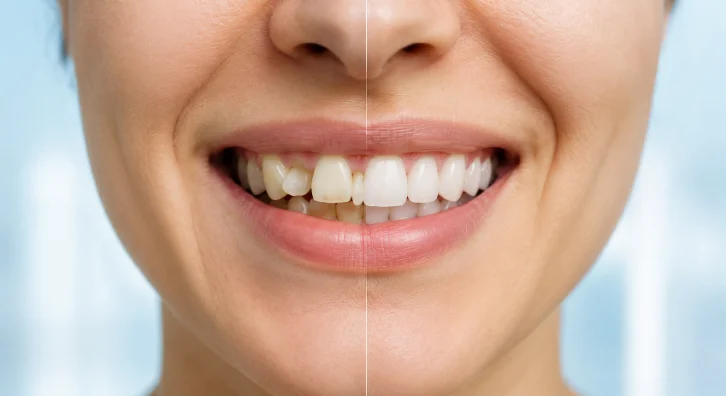
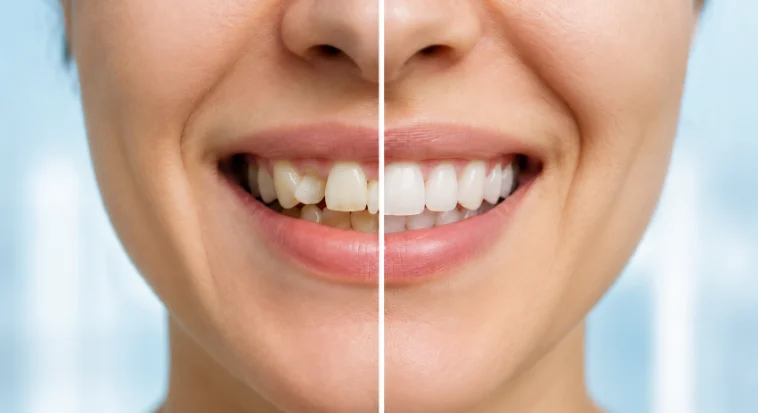
Add orthodontics page, update ortho/esthetic menu images, fix station exit to east
- Add new site/orthodontics.html (矯正歯科 / インビザラインGo detail page),
  matching whitening.html's page structure in the site's default brown palette
- Link index.html's orthodontics menu card image/title to /orthodontics.html
  and update its new comparison photo + description
- Update index.html's esthetic menu card image to the new crop
- Add site/assets/img/payment-brands.webp and use it in access.html's
  payment section, replacing the placeholder pending the official logos
- Correct "JR大森駅 北口" to "東口" across access.html, footer.html, and
  CLAUDE.md, and update access.html's route description with real text
- Add /orthodontics.html to footer nav, sitemap.xml, and CLAUDE.md

Changed region(s): [[0.4848, 0.0, 0.5152, 1.0]]

diff --git a/site/orthodontics.html b/site/orthodontics.html
@@ -1,0 +1,220 @@
+<!DOCTYPE html>
+<html lang="ja">
+<head>
+<meta charset="utf-8">
+<meta name="viewport" content="width=device-width, initial-scale=1">
+<title>矯正歯科（インビザラインGo）｜大森歯科クリニック</title>
+<meta name="description" content="大森歯科クリニックは前歯に特化したマウスピース矯正「インビザラインGo」に対応。短期間・低価格で気になる前歯の歯並びを整えられます。">
+<link rel="canonical" href="https://www.oomori-dc.com/orthodontics.html">
+<meta name="robots" content="index,follow">
+<meta property="og:title" content="矯正歯科（インビザラインGo）｜大森歯科クリニック">
+<meta property="og:description" content="大森歯科クリニックは前歯に特化したマウスピース矯正「インビザラインGo」に対応。短期間・低価格で気になる前歯の歯並びを整えられます。">
+<meta property="og:type" content="website">
+<meta property="og:url" content="https://www.oomori-dc.com/orthodontics.html">
+<meta property="og:site_name" content="大森歯科クリニック">
+<meta property="og:image" content="https://www.oomori-dc.com/assets/img/ogp-image.png">
+<meta property="og:image:width" content="1200">
+<meta property="og:image:height" content="630">
+<meta property="og:locale" content="ja_JP">
+<meta name="twitter:card" content="summary_large_image">
+<meta name="twitter:title" content="矯正歯科（インビザラインGo）｜大森歯科クリニック">
+<meta name="twitter:description" content="大森歯科クリニックは前歯に特化したマウスピース矯正「インビザラインGo」に対応。短期間・低価格で気になる前歯の歯並びを整えられます。">
+<meta name="twitter:image" content="https://www.oomori-dc.com/assets/img/ogp-image.png">
+<link rel="icon" href="favicon.ico" sizes="any">
+<link rel="icon" type="image/png" sizes="32x32" href="favicon-32.png">
+<link rel="icon" type="image/png" sizes="16x16" href="favicon-16.png">
+<link rel="apple-touch-icon" sizes="180x180" href="apple-touch-icon.png">
+<link rel="manifest" href="site.webmanifest">
+<meta name="theme-color" content="#7A5D49">
+<link rel="preconnect" href="https://fonts.googleapis.com">
+<link rel="preconnect" href="https://fonts.gstatic.com" crossorigin>
+<link href="https://fonts.googleapis.com/css2?family=Shippori+Mincho:wght@400;500;600&family=Noto+Sans+JP:wght@400;500;700&family=Cormorant+Garamond:wght@300;400;500&family=Montserrat:wght@300;400;500&display=swap" rel="stylesheet">
+<link rel="stylesheet" href="css/style.css">
+<script type="application/ld+json">
+{
+  "@context": "https://schema.org",
+  "@type": "BreadcrumbList",
+  "itemListElement": [
+    {
+      "@type": "ListItem",
+      "position": 1,
+      "name": "ホーム",
+      "item": "https://www.oomori-dc.com/"
+    },
+    {
+      "@type": "ListItem",
+      "position": 2,
+      "name": "矯正歯科（インビザラインGo）",
+      "item": "https://www.oomori-dc.com/orthodontics.html"
+    }
+  ]
+}
+</script>
+</head>
+<body>
+
+<div data-include="partials/header.html"></div>
+
+<!-- TODO: ortho-hero photo pending (マウスピース矯正, 21:9) -->
+<div id="top" class="page-hero">
+  <div class="page-hero__scrim"></div>
+  <div class="page-hero__content">
+    <span class="page-hero__eyebrow">INVISALIGN GO</span>
+    <h1 class="page-hero__title" style="font-size:38px">前歯に特化したマウスピース矯正<br>「インビザラインGo」</h1>
+  </div>
+</div>
+
+<main>
+  <nav aria-label="パンくず" class="breadcrumb">
+    <a href="/">ホーム</a>
+    <span class="breadcrumb__sep">›</span>
+    <span class="breadcrumb__current">矯正歯科／インビザラインGo</span>
+  </nav>
+
+  <section class="intro">
+    <h2 class="intro__title">気になる前歯の歯並びを、<br>短期間・低価格で整えます</h2>
+    <p class="intro__lead">当院では、気になる前歯の歯並びを、短期間・低価格で整えることができるマウスピース型矯正装置「インビザラインGo（Invisalign Go）」を導入しています。「前歯のすきっ歯やガタガタだけを治したい」「目立たない方法で、費用を抑えて部分矯正をしたい」という方におすすめの治療法です。</p>
+    <div class="intro__divider"></div>
+  </section>
+
+  <section class="section">
+    <div class="anchor-grid">
+      <a href="#merit">メリット・特徴</a>
+      <a href="#price">治療費・期間の目安</a>
+      <a href="#flow">治療の流れ</a>
+      <a href="#notes">ご注意点（適応について）</a>
+    </div>
+  </section>
+
+  <div class="content-layout">
+    <div class="content-stack">
+
+      <section id="merit" class="content-section">
+        <div class="section-heading" style="margin-bottom:0">
+          <h2 class="section-heading__title">インビザラインGoのメリット・特徴</h2>
+          <div class="section-heading__rule"></div>
+        </div>
+        <div class="two-col-grid">
+          <div class="info-card">
+            <span class="info-card__eyebrow">01</span>
+            <h3 class="info-card__title">目立ちにくい透明な装置</h3>
+            <p class="info-card__text">薄く透明なマウスピースを使用するため、周囲に気づかれずに治療を行えます。</p>
+          </div>
+          <div class="info-card">
+            <span class="info-card__eyebrow">02</span>
+            <h3 class="info-card__title">取り外しが可能で衛生的</h3>
+            <p class="info-card__text">食事や歯磨きの際は取り外せるため、いつも通り食事を楽しめ、お口のケアも簡単です。</p>
+          </div>
+          <div class="info-card">
+            <span class="info-card__eyebrow">03</span>
+            <h3 class="info-card__title">短期間・低価格</h3>
+            <p class="info-card__text">奥歯を動かさず前歯（最大20本）に特化して治療を行うため、全体的な矯正よりも短い期間（約3〜7ヶ月）と、抑えた費用で治療が可能です。</p>
+          </div>
+          <div class="info-card">
+            <span class="info-card__eyebrow">04</span>
+            <h3 class="info-card__title">事前に歯の動きをシミュレーション</h3>
+            <p class="info-card__text">3Dの治療計画（クリンチェック）を使い、治療開始から完了までの歯の動きを事前に画面で確認できます。</p>
+          </div>
+        </div>
+      </section>
+
+      <section id="price" class="content-section">
+        <div class="section-heading" style="margin-bottom:0">
+          <h2 class="section-heading__title">治療費・期間の目安</h2>
+          <div class="section-heading__rule"></div>
+        </div>
+        <dl class="definition-list" style="--label-w:200px">
+          <dt>治療期間の目安</dt>
+          <dd>約3ヶ月〜7ヶ月（症例により異なります）</dd>
+          <dt>費用の目安</dt>
+          <dd><span style="font:300 30px/1.3 'Montserrat',sans-serif;letter-spacing:.04em;font-variant-numeric:tabular-nums;color:#634532">50万円</span>（税別）</dd>
+        </dl>
+        <p style="margin:0;font:400 15px/1.9 'Noto Sans JP',sans-serif;color:#746D69">※インビザラインGoは自由診療（保険外診療）となります。</p>
+      </section>
+
+      <section id="flow" class="content-section">
+        <div class="section-heading" style="margin-bottom:0">
+          <h2 class="section-heading__title">治療の流れ</h2>
+          <div class="section-heading__rule"></div>
+        </div>
+        <ol class="flow-list">
+          <li class="flow-item">
+            <span class="flow-item__number">01</span>
+            <div class="flow-item__body">
+              <span class="flow-item__title">カウンセリング</span>
+              <span class="flow-item__text">気になっている部分と、目指したい歯並びをうかがいます。</span>
+            </div>
+          </li>
+          <li class="flow-item">
+            <span class="flow-item__number">02</span>
+            <div class="flow-item__body">
+              <span class="flow-item__title">検査・適応の確認</span>
+              <span class="flow-item__text">口腔内スキャナーと写真で歯並びと噛み合わせを確認し、インビザラインGoで対応できるかをお伝えします。</span>
+            </div>
+          </li>
+          <li class="flow-item">
+            <span class="flow-item__number">03</span>
+            <div class="flow-item__body">
+              <span class="flow-item__title">治療計画（クリンチェック）のご確認</span>
+              <span class="flow-item__text">3Dシミュレーションで歯の動きと仕上がりを画面で確認し、期間と費用をご説明します。</span>
+            </div>
+          </li>
+          <li class="flow-item">
+            <span class="flow-item__number">04</span>
+            <div class="flow-item__body">
+              <span class="flow-item__title">マウスピース装着・定期チェック</span>
+              <span class="flow-item__text">1日20時間以上の装着をお願いし、1〜2か月ごとに歯の動きを確認します。</span>
+            </div>
+          </li>
+          <li class="flow-item">
+            <span class="flow-item__number">05</span>
+            <div class="flow-item__body">
+              <span class="flow-item__title">保定</span>
+              <span class="flow-item__text">整えた歯並びが戻らないよう、保定装置で歯並びを維持します。</span>
+            </div>
+          </li>
+        </ol>
+      </section>
+
+      <section id="notes" class="content-section">
+        <div class="section-heading" style="margin-bottom:0">
+          <h2 class="section-heading__title">ご注意点（適応について）</h2>
+          <div class="section-heading__rule"></div>
+        </div>
+        <p style="margin:0;font:400 16px/1.9 'Noto Sans JP',sans-serif;color:#1A1A1A;max-width:820px">インビザラインGoは、前歯〜小臼歯の軽度なガタつきや隙間の改善に適した「部分矯正」のシステムです。骨格的な問題がある場合や、奥歯の噛み合わせの大幅な調整が必要な重度の症例など、お口の状態によっては適応外となる場合があります。その際は、より適した治療法をご提案いたします。</p>
+      </section>
+
+      <section class="cta-banner">
+        <h2 class="cta-banner__title">まずはカウンセリングからご相談ください</h2>
+        <a href="tel:0357538173" class="cta-banner__tel">
+          <svg width="26" height="26" viewBox="0 0 24 24" fill="none" stroke="#1A1A1A" stroke-width="1.4" aria-hidden="true"><path d="M6.6 10.8a15 15 0 0 0 6.6 6.6l2.2-2.2a1 1 0 0 1 1-.25 11.4 11.4 0 0 0 3.6.58 1 1 0 0 1 1 1V20a1 1 0 0 1-1 1A17 17 0 0 1 3 4a1 1 0 0 1 1-1h3.5a1 1 0 0 1 1 1 11.4 11.4 0 0 0 .58 3.6 1 1 0 0 1-.25 1z"></path></svg>
+          <span>03-5753-8173</span>
+        </a>
+        <a href="https://ssl.haisha-yoyaku.jp/s2266232/login/serviceAppoint/index?SITE_CODE=hp" target="_blank" rel="noopener" class="cta-banner__button">WEB予約ページへ</a>
+      </section>
+
+    </div>
+
+    <aside class="page-aside">
+      <div class="page-aside__group">
+        <h2>診療時間</h2>
+        <p class="page-aside__text">月・水・木・金<br>10:00 - 13:00 ／ 15:00 - 19:00<br>土・日・祝<br>10:00 - 13:00 ／ 14:30 - 18:00<br>休診 火曜</p>
+        <a href="/access.html" class="page-aside__link" style="margin-top:8px;border-top:1px dotted #DED5CE;border-bottom:0">アクセス・診療時間</a>
+      </div>
+      <div class="page-aside__group">
+        <h2>関連ページ</h2>
+        <a href="/whitening.html" class="page-aside__link">ホワイトニング・クリーニング</a>
+        <a href="/clinic.html" class="page-aside__link">クリニック紹介</a>
+        <a href="/faq.html" class="page-aside__link">よくあるご質問</a>
+        <a href="/contact.html" class="page-aside__link">お問い合わせ</a>
+      </div>
+    </aside>
+
+  </div>
+</main>
+
+<div style="margin-top:96px" data-include="partials/footer.html"></div>
+
+<script src="js/include.js"></script>
+</body>
+</html>

diff --git a/site/access.html b/site/access.html
@@ -4,11 +4,11 @@
 <meta charset="utf-8">
 <meta name="viewport" content="width=device-width, initial-scale=1">
 <title>アクセス・診療時間｜大森歯科クリニック</title>
-<meta name="description" content="大森歯科クリニックへのアクセス、診療時間、お支払い方法のご案内。JR大森駅北口より徒歩3分。">
+<meta name="description" content="大森歯科クリニックへのアクセス、診療時間、お支払い方法のご案内。JR大森駅東口より徒歩3分。">
 <link rel="canonical" href="https://www.oomori-dc.com/access.html">
 <meta name="robots" content="index,follow">
 <meta property="og:title" content="アクセス・診療時間｜大森歯科クリニック">
-<meta property="og:description" content="大森歯科クリニックへのアクセス、診療時間、お支払い方法のご案内。JR大森駅北口より徒歩3分。">
+<meta property="og:description" content="大森歯科クリニックへのアクセス、診療時間、お支払い方法のご案内。JR大森駅東口より徒歩3分。">
 <meta property="og:type" content="website">
 <meta property="og:url" content="https://www.oomori-dc.com/access.html">
 <meta property="og:site_name" content="大森歯科クリニック">
@@ -18,7 +18,7 @@
 <meta property="og:locale" content="ja_JP">
 <meta name="twitter:card" content="summary_large_image">
 <meta name="twitter:title" content="アクセス・診療時間｜大森歯科クリニック">
-<meta name="twitter:description" content="大森歯科クリニックへのアクセス、診療時間、お支払い方法のご案内。JR大森駅北口より徒歩3分。">
+<meta name="twitter:description" content="大森歯科クリニックへのアクセス、診療時間、お支払い方法のご案内。JR大森駅東口より徒歩3分。">
 <meta name="twitter:image" content="https://www.oomori-dc.com/assets/img/ogp-image.png">
 <link rel="icon" href="favicon.ico" sizes="any">
 <link rel="icon" type="image/png" sizes="32x32" href="favicon-32.png">
@@ -72,8 +72,8 @@
   </nav>
 
   <section class="intro">
-    <h2 class="intro__title">JR大森駅 北口から<br>徒歩3分、ビル2階です</h2>
-    <p class="intro__lead">駅前の商店街を直進し、〇〇銀行の角を左へ。1階に〇〇が入っているビルの2階です。エレベーターをご利用ください。</p>
+    <h2 class="intro__title">JR大森駅 東口から<br>徒歩3分、ビル1・2階です</h2>
+    <p class="intro__lead">ドトールコーヒーの前を抜けて商店街を直進し、りそな銀行のある交差点を左折した左側です。</p>
     <div class="intro__divider"></div>
   </section>
 
@@ -101,7 +101,7 @@
             <dt>電話</dt>
             <dd><a href="tel:0357538173" style="font-variant-numeric:tabular-nums">03-5753-8173</a></dd>
             <dt>最寄駅</dt>
-            <dd>JR京浜東北線 大森駅 北口より徒歩3分</dd>
+            <dd>JR京浜東北線 大森駅 東口より徒歩3分</dd>
           </dl>
           <a href="https://www.google.com/maps?q=%E5%A4%A7%E6%A3%AE%E6%AD%AF%E7%A7%91%E3%82%AF%E3%83%AA%E3%83%8B%E3%83%83%E3%82%AF%20%E6%9D%B1%E4%BA%AC%E9%83%BD%E5%A4%A7%E7%94%B0%E5%8C%BA%E5%A4%A7%E6%A3%AE%E5%8C%971-10-12" target="_blank" rel="noopener" class="cta-banner__button" style="max-width:300px">
             <svg width="18" height="18" viewBox="0 0 24 24" fill="none" stroke="#fff" stroke-width="1.5" aria-hidden="true"><path d="M12 21s7-6.2 7-11a7 7 0 1 0-14 0c0 4.8 7 11 7 11z"></path><circle cx="12" cy="10" r="2.6"></circle></svg>
@@ -153,8 +153,7 @@
       </div>
       <div style="background:#F9F5F0;padding:32px;display:flex;flex-direction:column;gap:20px">
         <span style="align-self:flex-start;padding:10px 18px;background:#7A5D49;font:500 15px/1.4 'Noto Sans JP',sans-serif;letter-spacing:.06em;color:#fff">ご利用可能なクレジットカード</span>
-        <!-- TODO: 決済ブランドの公式ロゴ画像 pending -->
-        <div class="asset-placeholder" style="min-height:96px;background-color:#F3F3F2">［決済ブランドの公式ロゴ画像をドロップ］</div>
+        <img src="assets/img/payment-brands.webp" width="1200" height="400" alt="ご利用可能な決済ブランド：Apple Pay、Google Pay、VISA、Mastercard、UnionPay、JCB、American Express、Diners Club、Discover" loading="lazy" style="width:100%;height:auto;max-width:640px">
         <p style="margin:0;font:400 15px/1.9 'Noto Sans JP',sans-serif;color:#1A1A1A">保険診療は現金のみのお取り扱いです。自費診療ではクレジットカードをご利用いただけます。分割でのお支払いをご希望の場合は受付にご相談ください。</p>
       </div>
     </section>

diff --git a/site/index.html b/site/index.html
@@ -80,7 +80,7 @@
         </div>
       </article>
       <article class="menu-card">
-        <div class="menu-card__image"><img src="assets/img/menu-esthetic.webp" width="726" height="396" alt="審美歯科の診療風景" loading="lazy"></div>
+        <div class="menu-card__image"><img src="assets/img/menu-esthetic.webp" width="758" height="413" alt="審美歯科の診療風景" loading="lazy"></div>
         <div class="menu-card__body">
           <h3 class="menu-card__title">審美歯科</h3>
           <p class="menu-card__desc">セラミックの詰め物・被せ物で、色と形を自然になじむよう整えます。</p>
@@ -101,10 +101,10 @@
         </div>
       </article>
       <article class="menu-card">
-        <div class="menu-card__image"><img src="assets/img/menu-ortho.webp" width="726" height="310" alt="矯正歯科のイメージ" loading="lazy"></div>
+        <div class="menu-card__image"><a href="/orthodontics.html"><img src="assets/img/menu-ortho.webp" width="758" height="474" alt="矯正歯科（インビザラインGo）のイメージ" loading="lazy"></a></div>
         <div class="menu-card__body">
-          <h3 class="menu-card__title">矯正歯科</h3>
-          <p class="menu-card__desc">マウスピースの両方に対応。目立ちにくい選択肢もご用意します。</p>
+          <h3 class="menu-card__title"><a href="/orthodontics.html">矯正歯科</a></h3>
+          <p class="menu-card__desc">前歯に特化したマウスピース矯正「インビザラインGo」に対応。目立ちにくい選択肢もご用意します。</p>
         </div>
       </article>
       <article class="menu-card">

diff --git a/site/partials/footer.html b/site/partials/footer.html
@@ -41,7 +41,7 @@
         <h2>アクセス</h2>
       </div>
       <iframe title="大森歯科クリニックの地図（東京都大田区大森北）" class="reserve__map" src="https://www.google.com/maps?q=%E5%A4%A7%E6%A3%AE%E6%AD%AF%E7%A7%91%E3%82%AF%E3%83%AA%E3%83%8B%E3%83%83%E3%82%AF%20%E6%9D%B1%E4%BA%AC%E9%83%BD%E5%A4%A7%E7%94%B0%E5%8C%BA%E5%A4%A7%E6%A3%AE%E5%8C%971-10-12&z=18&output=embed" loading="lazy"></iframe>
-      <p class="reserve__address">〒143-0016 東京都大田区大森北1丁目10−12<br>ガーデンホーム大森 1F・2F<br>JR大森駅 北口より徒歩3分</p>
+      <p class="reserve__address">〒143-0016 東京都大田区大森北1丁目10−12<br>ガーデンホーム大森 1F・2F<br>JR大森駅 東口より徒歩3分</p>
       <a href="https://www.google.com/maps?q=%E5%A4%A7%E6%A3%AE%E6%AD%AF%E7%A7%91%E3%82%AF%E3%83%AA%E3%83%8B%E3%83%83%E3%82%AF%20%E6%9D%B1%E4%BA%AC%E9%83%BD%E5%A4%A7%E7%94%B0%E5%8C%BA%E5%A4%A7%E6%A3%AE%E5%8C%971-10-12" target="_blank" rel="noopener" class="reserve__map-link">マップで開く ›</a>
     </div>
   </div>
@@ -60,7 +60,7 @@
       <a href="/#menu">› 審美歯科</a>
       <a href="/#menu">› ホワイトニング・クリーニング</a>
       <a href="/#menu">› インプラント</a>
-      <a href="/#menu">› 矯正歯科</a>
+      <a href="/orthodontics.html">› 矯正歯科</a>
       <a href="/#menu">› 小児歯科</a>
     </div>
     <div class="site-footer__col">

diff --git a/CLAUDE.md b/CLAUDE.md
@@ -19,6 +19,7 @@ site/
 ├── clinic.html              # クリニック紹介
 ├── staff.html                # 院長・スタッフ紹介
 ├── whitening.html            # ホワイトニング（ホワイトエッセンス）詳細
+├── orthodontics.html          # 矯正歯科（インビザラインGo）詳細
 ├── faq.html                  # よくあるご質問
 ├── access.html                # アクセス・診療時間
 ├── contact.html               # お問い合わせ
@@ -114,7 +115,7 @@ site/
 
 - **医院名**: 大森歯科クリニック（英字: OOMORI DENTAL CLINIC）
 - **電話番号**: `03-5753-8173`（`tel:0357538173` として利用）
-- **住所**: 〒143-0016 東京都大田区大森北1丁目10−12 ガーデンホーム大森 1F・2F（JR大森駅 北口より徒歩3分）
+- **住所**: 〒143-0016 東京都大田区大森北1丁目10−12 ガーデンホーム大森 1F・2F（JR大森駅 東口より徒歩3分）
 - **診療時間**: 月・水・木・金・土・日・祝　午前 10:00-13:00／午後 平日15:00-19:00・土日祝14:30-18:00。**休診日: 火曜**
 - **WEB予約URL**: `https://ssl.haisha-yoyaku.jp/s2266232/login/serviceAppoint/index?SITE_CODE=hp`（外部予約システム、`target="_blank" rel="noopener"` を必ず付与）
 - **問い合わせ先メール**: `oomoridc@gmail.com`（`js/contact-form.js` のフォールバック先）
@@ -122,9 +123,8 @@ site/
 ## 未対応・要確認のTODO（サイト内コメントより）
 
 以下は各HTMLファイル内に `<!-- TODO: ... -->` として残っている未対応項目。関連ページを触る際は状況を確認すること。
-- `staff.html` / `faq.html` / `contact.html` / `whitening.html` / `access.html` / `news/kouku-scanner.html`: 各ページのヒーロー画像（21:9）が仮のまま、差し替え待ち。
+- `staff.html` / `faq.html` / `contact.html` / `whitening.html` / `access.html` / `orthodontics.html` / `news/kouku-scanner.html`: 各ページのヒーロー画像（21:9）が仮のまま、差し替え待ち。
 - `whitening.html`: ホワイトエッセンス公式の施術写真は掲載許諾取得後に差し替え予定。
-- `access.html`: 決済ブランドの公式ロゴ画像が未挿入。
 - `js/contact-form.js`: `CONTACT_FORM_ENDPOINT` が `YOUR_FORM_ID` のプレースホルダーのまま。Formspree等の実エンドポイントに差し替えるまでは、送信時に `mailto:` へのフォールバックで動作する仕様（意図的な暫定実装）。
 - `staff.html`（経歴・所属学会）と `access.html`（道順の説明文）に `〇〇` のプレースホルダーが残っている。実際の大学名・所属学会名・研修名・目印となる店舗名など、クリニックからの実データ提供待ち。
 - GA4／Search Console／OGP画像・favicon（正式デザイン）／本番ドメインなど、クライアント支給が必要な情報は未反映。詳細はリリース前チェックリストの確認結果を参照。
